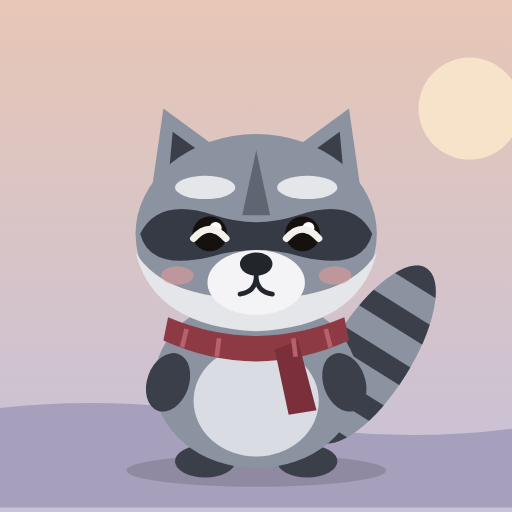
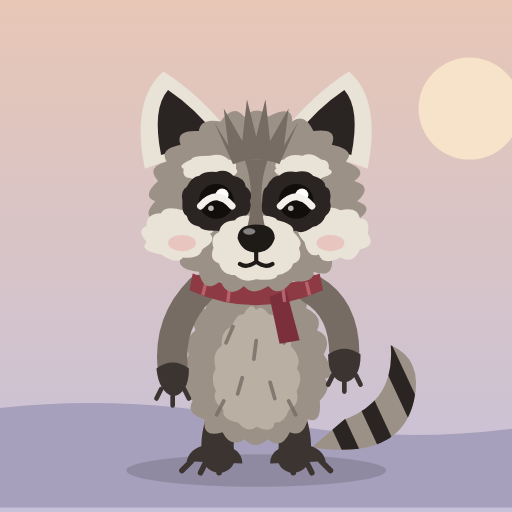
사진을 참고해 라쿤 캐릭터 다시 그리기
털이 삐죽한 아기 라쿤이 두 발로 선 모습으로 바꾸고 옷·소품 위치를 맞춤.

Claude-Session: https://claude.ai/code/session_018356KYRaA4nVB9yHaTF6Rt

diff --git a/index.html b/index.html
@@ -122,8 +122,8 @@ h2{font-family:var(--font-display);font-weight:400;font-size:20px;margin:0;lette
 .card textarea{font:inherit;font-size:13px;width:100%;min-height:70px;padding:8px;border-radius:8px;border:1px solid var(--line);background:var(--surface-2);color:var(--ink);resize:vertical}
 
 /* raccoon motion */
-#racc .body-g{transform-origin:100px 190px;animation:breathe 3.6s ease-in-out infinite}
-#racc .tail-g{transform-origin:128px 172px;animation:sway 4s ease-in-out infinite}
+#racc .body-g{transform-origin:100px 188px;animation:breathe 3.6s ease-in-out infinite}
+#racc .tail-g{transform-origin:130px 176px;animation:sway 4s ease-in-out infinite}
 #racc.hop{animation:hop .55s cubic-bezier(.3,1.6,.5,1)}
 #racc .eyes-happy{display:none}
 #racc.happy .eyes-happy{display:inline}
@@ -167,37 +167,47 @@ h2{font-family:var(--font-display);font-weight:400;font-size:20px;margin:0;lette
       <ellipse cx="160" cy="214" rx="56" ry="7" fill="#000" opacity=".14"/>
       <g transform="translate(60 24)"><g id="racc">
         <g class="tail-g">
-          <g transform="rotate(32 150 140)">
-            <ellipse cx="150" cy="140" rx="17" ry="44" fill="#8C93A0"/>
-            <g clip-path="url(#tailclip)" fill="#3A3F4A"><rect x="120" y="96" width="60" height="9"/><rect x="120" y="116" width="60" height="9"/><rect x="120" y="136" width="60" height="9"/><rect x="120" y="156" width="60" height="9"/><rect x="120" y="176" width="60" height="9"/></g>
-          </g>
+          <clipPath id="tailclip2"><path d="M124 180 Q162 186 168 160 Q172 142 158 136 Q160 160 138 168Z"/></clipPath>
+          <path d="M124 180 Q162 186 168 160 Q172 142 158 136 Q160 160 138 168Z" fill="#9C9186"/>
+          <g clip-path="url(#tailclip2)" fill="#2A2523"><rect x="132" y="150" width="7" height="40" transform="rotate(-25 135 170)"/><rect x="146" y="140" width="7" height="50" transform="rotate(-25 149 165)"/><rect x="160" y="130" width="7" height="50" transform="rotate(-25 163 155)"/></g>
         </g>
         <g class="body-g">
-          <ellipse cx="78" cy="186" rx="13" ry="7" fill="#3A3F4A"/><ellipse cx="122" cy="186" rx="13" ry="7" fill="#3A3F4A"/>
-          <ellipse cx="100" cy="152" rx="44" ry="37" fill="#8C93A0"/>
-          <ellipse cx="100" cy="160" rx="27" ry="24" fill="#D9DCE2"/>
-          <ellipse cx="62" cy="152" rx="9" ry="13" fill="#3A3F4A" transform="rotate(20 62 152)"/>
-          <ellipse cx="138" cy="152" rx="9" ry="13" fill="#3A3F4A" transform="rotate(-20 138 152)"/>
-          <g id="acc-scarf" hidden><path d="M62 124 Q100 140 138 124 L140 134 Q100 152 60 134Z" fill="#8E3A45"/><path d="M118 134 L126 164 L114 166 L108 138Z" fill="#7A2F3A"/><g stroke="#B8606B" stroke-width="2"><path d="M70 129 L68 137"/><path d="M84 133 L83 141"/><path d="M116 133 L117 141"/><path d="M130 129 L132 137"/></g></g>
-          <g id="acc-mug" hidden><rect x="136" y="140" width="20" height="22" rx="4" fill="#E9E1D3"/><path d="M156 145 q8 0 8 6 t-8 6" fill="none" stroke="#E9E1D3" stroke-width="3"/><rect x="136" y="146" width="20" height="4" fill="#C8783A"/><path d="M142 134 q-3 -5 0 -9 M150 134 q-3 -5 0 -9" stroke="#C9CDD6" stroke-width="2" fill="none" stroke-linecap="round"/><ellipse cx="140" cy="152" rx="8" ry="10" fill="#3A3F4A"/></g>
-          <!-- head -->
-          <path d="M54 76 L60 34 L90 56Z" fill="#8C93A0"/><path d="M62 66 L64 44 L82 57Z" fill="#3A3F4A"/>
-          <path d="M146 76 L140 34 L110 56Z" fill="#8C93A0"/><path d="M138 66 L136 44 L118 57Z" fill="#3A3F4A"/>
-          <ellipse cx="100" cy="88" rx="52" ry="43" fill="#8C93A0"/>
-          <path d="M48 96 Q56 128 100 130 Q144 128 152 96 Q140 116 100 116 Q60 116 48 96Z" fill="#E4E6EA"/>
-          <ellipse cx="78" cy="68" rx="13" ry="5" fill="#E4E6EA"/><ellipse cx="122" cy="68" rx="13" ry="5" fill="#E4E6EA"/>
-          <path d="M100 52 L94 80 L106 80Z" fill="#3A3F4A" opacity=".55"/>
-          <path d="M50 88 Q58 72 82 80 Q100 86 118 80 Q142 72 150 88 Q146 104 120 98 Q100 92 80 98 Q54 104 50 88Z" fill="#353A45"/>
-          <g class="eyes-open"><circle cx="80" cy="88" r="7.5" fill="#15110F"/><circle cx="120" cy="88" r="7.5" fill="#15110F"/><circle cx="82.5" cy="85.5" r="2.6" fill="#fff"/><circle cx="122.5" cy="85.5" r="2.6" fill="#fff"/></g>
-          <g class="eyes-happy" fill="none" stroke="#F4F1EC" stroke-width="3" stroke-linecap="round"><path d="M73 90 Q80 82 87 90"/><path d="M113 90 Q120 82 127 90"/></g>
-          <ellipse cx="100" cy="109" rx="21" ry="14" fill="#F4F4F6"/>
-          <ellipse cx="100" cy="101" rx="7" ry="5" fill="#22252B"/>
-          <path d="M100 106 Q100 113 93 114 M100 106 Q100 113 107 114" fill="none" stroke="#22252B" stroke-width="2" stroke-linecap="round"/>
-          <ellipse cx="66" cy="106" rx="7" ry="4" fill="#E79A9A" opacity=".55"/><ellipse cx="134" cy="106" rx="7" ry="4" fill="#E79A9A" opacity=".55"/>
+          <path d="M86 166 Q82 178 84 184" stroke="#3B3431" stroke-width="14" stroke-linecap="round" fill="none"/>
+          <path d="M114 166 Q118 178 116 184" stroke="#3B3431" stroke-width="14" stroke-linecap="round" fill="none"/>
+          <path d="M70 186 Q72 178 84 179 Q94 180 94 187 Z" fill="#3B3431"/><path d="M106 187 Q106 180 116 179 Q128 178 130 186 Z" fill="#3B3431"/>
+          <g stroke="#3B3431" stroke-width="2.4" stroke-linecap="round"><path d="M72 186 L68 190 M78 187 L76 191 M84 187 L84 191"/><path d="M128 186 L132 190 M122 187 L124 191 M116 187 L116 191"/></g>
+          <path d="M129.1 140.0 Q135.5 149.6 129.7 150.4 Q132.9 154.2 127.4 159.9 Q128.3 170.2 122.2 167.9 Q120.3 175.9 114.5 173.5 Q110.8 181.4 105.0 176.5 Q99.4 181.5 95.0 176.5 Q89.1 180.6 85.5 173.5 Q76.5 176.2 77.8 167.9 Q69.4 165.4 72.6 159.9 Q67.3 157.7 70.3 150.4 Q66.9 149.1 70.9 140.0 Q68.2 134.3 73.8 129.6 Q71.0 122.6 78.4 120.1 Q78.3 111.9 84.1 112.1 Q84.6 106.5 90.3 106.5 Q92.0 100.6 96.8 103.5 Q100.0 95.8 103.2 103.5 Q108.0 100.5 109.7 106.5 Q116.9 105.1 115.9 112.1 Q123.3 112.6 121.6 120.1 Q129.2 123.7 126.2 129.6 Q133.1 132.6 129.1 140.0Z" fill="#9C9186"/>
+          <path d="M117.5 146.0 Q120.6 149.9 117.4 155.7 Q119.1 161.5 114.1 163.8 Q112.1 169.9 107.9 169.3 Q107.5 174.4 100.0 171.2 Q96.7 174.3 92.1 169.3 Q85.0 168.1 85.9 163.8 Q80.7 160.2 82.6 155.7 Q80.0 150.6 82.5 146.0 Q80.7 139.2 85.1 136.3 Q84.9 129.4 89.4 128.2 Q91.6 122.0 94.6 122.7 Q97.8 116.9 100.0 120.8 Q102.3 118.2 105.4 122.7 Q110.6 123.3 110.6 128.2 Q116.0 130.7 114.9 136.3 Q120.0 141.6 117.5 146.0Z" fill="#B9AFA3"/>
+          <g stroke="#766C63" stroke-width="1.6" stroke-linecap="round" fill="none" opacity=".8"><path d="M90 128 l-3 7 M100 134 l-1 8 M110 128 l2 7 M94 150 l-2 7 M106 152 l2 7 M86 160 l-3 6 M114 160 l3 6"/></g>
+          <path d="M76 112 Q62 126 64 146" stroke="#766C63" stroke-width="13" stroke-linecap="round" fill="none"/>
+          <path d="M124 112 Q138 120 138 140" stroke="#766C63" stroke-width="13" stroke-linecap="round" fill="none"/>
+          <path d="M57 146 Q58 156 64 158 Q71 157 71 146 Q64 141 57 146Z" fill="#3B3431"/>
+          <path d="M131 140 Q131 151 138 152 Q145 151 145 140 Q138 135 131 140Z" fill="#3B3431"/>
+          <g stroke="#3B3431" stroke-width="2" stroke-linecap="round"><path d="M59 155 l-2 4 M64 158 l0 4 M69 155 l2 4"/><path d="M133 149 l-2 4 M138 152 l0 4 M143 149 l2 4"/></g>
+          <g id="acc-scarf" hidden transform="translate(100 108) scale(.72) translate(-100 -128)"><path d="M62 124 Q100 140 138 124 L140 134 Q100 152 60 134Z" fill="#8E3A45"/><path d="M118 134 L126 164 L114 166 L108 138Z" fill="#7A2F3A"/><g stroke="#B8606B" stroke-width="2"><path d="M70 129 L68 137"/><path d="M84 133 L83 141"/><path d="M116 133 L117 141"/><path d="M130 129 L132 137"/></g></g>
+          <g id="acc-mug" hidden transform="translate(-2 -10)"><rect x="136" y="140" width="20" height="22" rx="4" fill="#E9E1D3"/><path d="M156 145 q8 0 8 6 t-8 6" fill="none" stroke="#E9E1D3" stroke-width="3"/><rect x="136" y="146" width="20" height="4" fill="#C8783A"/><path d="M142 134 q-3 -5 0 -9 M150 134 q-3 -5 0 -9" stroke="#C9CDD6" stroke-width="2" fill="none" stroke-linecap="round"/><ellipse cx="140" cy="152" rx="8" ry="9" fill="#3B3431"/></g>
+          <!-- ears -->
+          <path d="M52 60 Q46 30 60 18 Q76 28 90 46Z" fill="#E9E2D7"/><path d="M59 54 Q55 34 62 26 Q74 34 84 47Z" fill="#2A2523"/>
+          <path d="M148 60 Q154 30 140 18 Q124 28 110 46Z" fill="#E9E2D7"/><path d="M141 54 Q145 34 138 26 Q126 34 116 47Z" fill="#2A2523"/>
+          <path d="M143.5 74.0 Q152.2 77.0 142.3 82.8 Q145.9 90.4 138.6 91.1 Q141.7 98.3 132.6 98.4 Q133.6 107.5 124.7 104.3 Q125.2 109.4 115.4 108.4 Q109.7 115.9 105.2 110.5 Q98.1 115.2 94.8 110.5 Q88.0 116.5 84.6 108.4 Q77.4 114.2 75.3 104.3 Q65.5 103.3 67.4 98.4 Q60.1 100.9 61.4 91.1 Q51.9 86.5 57.7 82.8 Q50.1 80.9 56.5 74.0 Q50.4 71.8 57.7 65.2 Q52.3 59.1 61.4 56.9 Q58.0 51.5 67.4 49.6 Q64.9 43.1 75.3 43.7 Q76.0 38.0 84.6 39.6 Q90.2 31.7 94.8 37.5 Q101.0 32.2 105.2 37.5 Q116.1 32.0 115.4 39.6 Q120.8 35.5 124.7 43.7 Q135.5 42.3 132.6 49.6 Q143.3 52.0 138.6 56.9 Q149.0 60.5 142.3 65.2 Q150.6 67.6 143.5 74.0Z" fill="#9C9186"/>
+          <path d="M80.1 88.0 Q83.2 91.1 76.8 94.6 Q75.6 99.0 68.4 98.2 Q66.1 101.6 59.0 96.9 Q49.1 95.2 52.8 91.5 Q48.1 86.5 52.8 84.5 Q52.3 79.3 59.0 79.1 Q60.6 75.6 68.4 77.8 Q73.8 74.6 76.8 81.4 Q85.1 85.0 80.1 88.0Z" fill="#E9E2D7"/><path d="M148.1 88.0 Q151.9 93.5 144.8 94.6 Q141.8 101.4 136.4 98.2 Q128.6 102.0 127.0 96.9 Q122.3 98.7 120.8 91.5 Q115.2 85.4 120.8 84.5 Q122.5 78.1 127.0 79.1 Q130.6 75.0 136.4 77.8 Q143.8 76.1 144.8 81.4 Q149.3 81.1 148.1 88.0Z" fill="#E9E2D7"/>
+          <path d="M91.3 60.0 Q93.3 62.1 88.0 64.0 Q84.4 66.6 80.0 65.7 Q74.3 66.6 72.0 64.0 Q67.9 64.1 68.7 60.0 Q65.7 58.7 72.0 56.0 Q72.2 54.3 80.0 54.3 Q85.3 52.9 88.0 56.0 Q91.9 56.2 91.3 60.0Z" fill="#E9E2D7"/><path d="M131.3 60.0 Q135.0 62.0 128.0 64.0 Q128.1 66.3 120.0 65.7 Q117.2 66.9 112.0 64.0 Q106.1 61.1 108.7 60.0 Q106.9 56.8 112.0 56.0 Q114.1 53.3 120.0 54.3 Q123.7 52.6 128.0 56.0 Q131.8 56.1 131.3 60.0Z" fill="#E9E2D7"/>
+          <path d="M82 40 L88 50 L86 34 L94 48 L96 30 L100 46 L104 30 L106 48 L114 34 L112 50 L118 40 L110 58 Q100 54 90 58Z" fill="#766C63"/>
+          <path d="M97.4 74.0 Q98.7 77.5 95.5 80.3 Q96.0 83.1 90.1 85.0 Q89.5 87.1 82.8 86.7 Q76.7 86.9 75.5 85.0 Q70.8 84.0 70.1 80.3 Q67.8 79.6 68.2 74.0 Q67.2 69.4 70.1 67.7 Q72.2 63.4 75.5 63.0 Q77.4 60.9 82.8 61.3 Q87.2 59.8 90.1 63.0 Q95.0 64.0 95.5 67.7 Q98.8 69.7 97.4 74.0Z" fill="#2A2523"/><path d="M131.8 74.0 Q133.0 78.0 129.9 80.3 Q128.4 84.2 124.5 85.0 Q119.9 88.4 117.2 86.7 Q112.3 87.3 109.9 85.0 Q105.6 83.9 104.5 80.3 Q101.2 78.9 102.6 74.0 Q102.6 68.4 104.5 67.7 Q106.9 62.7 109.9 63.0 Q112.4 60.5 117.2 61.3 Q122.3 60.4 124.5 63.0 Q129.7 64.4 129.9 67.7 Q132.8 68.6 131.8 74.0Z" fill="#2A2523"/>
+          <path d="M118.4 94.0 Q120.4 99.6 116.0 100.8 Q114.8 104.8 109.2 105.8 Q108.8 108.5 100.0 107.6 Q94.6 109.5 90.8 105.8 Q85.3 105.8 84.0 100.8 Q79.4 99.2 81.6 94.0 Q80.0 88.9 84.0 87.2 Q84.9 82.6 90.8 82.2 Q92.5 79.3 100.0 80.4 Q107.3 79.6 109.2 82.2 Q116.6 83.9 116.0 87.2 Q120.8 91.6 118.4 94.0Z" fill="#E9E2D7"/>
+          <path d="M95 56 Q100 70 96 86 L104 86 Q100 70 105 56Z" fill="#766C63"/>
+          <g class="eyes-open"><circle cx="82.8" cy="74" r="7.5" fill="#120E0C"/><circle cx="117.2" cy="74" r="7.5" fill="#120E0C"/><circle cx="85.3" cy="71.3" r="2.8" fill="#fff"/><circle cx="119.7" cy="71.3" r="2.8" fill="#fff"/><circle cx="80.5" cy="77" r="1.2" fill="#fff" opacity=".7"/><circle cx="114.9" cy="77" r="1.2" fill="#fff" opacity=".7"/></g>
+          <g class="eyes-happy" fill="none" stroke="#F4F1EC" stroke-width="3" stroke-linecap="round"><path d="M76 76 Q82.8 68 89.6 76"/><path d="M110.4 76 Q117.2 68 124 76"/></g>
+          <path d="M92 90 Q92 84 100 84 Q108 84 108 90 Q106 96 100 96 Q94 96 92 90Z" fill="#1E1A18"/>
+          <ellipse cx="97" cy="87" rx="2.6" ry="1.4" fill="#fff" opacity=".45"/>
+          <path d="M100 96 L100 100 M100 100 Q96 103 93 101 M100 100 Q104 103 107 101" fill="none" stroke="#1E1A18" stroke-width="1.8" stroke-linecap="round"/>
+          <ellipse cx="68" cy="92" rx="6" ry="3.5" fill="#E79A9A" opacity=".4"/><ellipse cx="132" cy="92" rx="6" ry="3.5" fill="#E79A9A" opacity=".4"/>
+          <g transform="translate(100 74) scale(.86) translate(-100 -88)">
           <g id="acc-glasses" hidden fill="none" stroke="#C99B4A" stroke-width="2.4"><circle cx="80" cy="88" r="13"/><circle cx="120" cy="88" r="13"/><path d="M93 87 Q100 83 107 87"/><path d="M67 86 L52 82"/><path d="M133 86 L148 82"/></g>
           <g id="acc-beanie" hidden><path d="M50 70 Q54 26 100 24 Q146 26 150 70Z" fill="#5E7D6A"/><rect x="46" y="62" width="108" height="16" rx="8" fill="#4B6957"/><g stroke="#6F907B" stroke-width="2"><path d="M70 34 L66 62"/><path d="M86 28 L84 62"/><path d="M100 26 L100 62"/><path d="M114 28 L116 62"/><path d="M130 34 L134 62"/></g><circle cx="100" cy="22" r="10" fill="#E9E1D3"/></g>
           <g id="acc-headphones" hidden><path d="M46 84 Q46 30 100 30 Q154 30 154 84" fill="none" stroke="#2E3340" stroke-width="7" stroke-linecap="round"/><rect x="36" y="76" width="18" height="28" rx="7" fill="#D98A2B"/><rect x="146" y="76" width="18" height="28" rx="7" fill="#D98A2B"/></g>
           <g id="acc-crown" hidden><path d="M76 50 L80 28 L91 40 L100 22 L109 40 L120 28 L124 50Z" fill="#E7B53C" stroke="#B9862A" stroke-width="1.5" stroke-linejoin="round"/><circle cx="100" cy="40" r="3" fill="#C94E5B"/><circle cx="86" cy="45" r="2" fill="#4E86C9"/><circle cx="114" cy="45" r="2" fill="#4E86C9"/></g>
+          </g>
         </g>
       </g></g>
       <g id="bubble-g">

diff --git a/src/app.html b/src/app.html
@@ -111,8 +111,8 @@ h2{font-family:var(--font-display);font-weight:400;font-size:20px;margin:0;lette
 .card textarea{font:inherit;font-size:13px;width:100%;min-height:70px;padding:8px;border-radius:8px;border:1px solid var(--line);background:var(--surface-2);color:var(--ink);resize:vertical}
 
 /* raccoon motion */
-#racc .body-g{transform-origin:100px 190px;animation:breathe 3.6s ease-in-out infinite}
-#racc .tail-g{transform-origin:128px 172px;animation:sway 4s ease-in-out infinite}
+#racc .body-g{transform-origin:100px 188px;animation:breathe 3.6s ease-in-out infinite}
+#racc .tail-g{transform-origin:130px 176px;animation:sway 4s ease-in-out infinite}
 #racc.hop{animation:hop .55s cubic-bezier(.3,1.6,.5,1)}
 #racc .eyes-happy{display:none}
 #racc.happy .eyes-happy{display:inline}
@@ -156,37 +156,47 @@ h2{font-family:var(--font-display);font-weight:400;font-size:20px;margin:0;lette
       <ellipse cx="160" cy="214" rx="56" ry="7" fill="#000" opacity=".14"/>
       <g transform="translate(60 24)"><g id="racc">
         <g class="tail-g">
-          <g transform="rotate(32 150 140)">
-            <ellipse cx="150" cy="140" rx="17" ry="44" fill="#8C93A0"/>
-            <g clip-path="url(#tailclip)" fill="#3A3F4A"><rect x="120" y="96" width="60" height="9"/><rect x="120" y="116" width="60" height="9"/><rect x="120" y="136" width="60" height="9"/><rect x="120" y="156" width="60" height="9"/><rect x="120" y="176" width="60" height="9"/></g>
-          </g>
+          <clipPath id="tailclip2"><path d="M124 180 Q162 186 168 160 Q172 142 158 136 Q160 160 138 168Z"/></clipPath>
+          <path d="M124 180 Q162 186 168 160 Q172 142 158 136 Q160 160 138 168Z" fill="#9C9186"/>
+          <g clip-path="url(#tailclip2)" fill="#2A2523"><rect x="132" y="150" width="7" height="40" transform="rotate(-25 135 170)"/><rect x="146" y="140" width="7" height="50" transform="rotate(-25 149 165)"/><rect x="160" y="130" width="7" height="50" transform="rotate(-25 163 155)"/></g>
         </g>
         <g class="body-g">
-          <ellipse cx="78" cy="186" rx="13" ry="7" fill="#3A3F4A"/><ellipse cx="122" cy="186" rx="13" ry="7" fill="#3A3F4A"/>
-          <ellipse cx="100" cy="152" rx="44" ry="37" fill="#8C93A0"/>
-          <ellipse cx="100" cy="160" rx="27" ry="24" fill="#D9DCE2"/>
-          <ellipse cx="62" cy="152" rx="9" ry="13" fill="#3A3F4A" transform="rotate(20 62 152)"/>
-          <ellipse cx="138" cy="152" rx="9" ry="13" fill="#3A3F4A" transform="rotate(-20 138 152)"/>
-          <g id="acc-scarf" hidden><path d="M62 124 Q100 140 138 124 L140 134 Q100 152 60 134Z" fill="#8E3A45"/><path d="M118 134 L126 164 L114 166 L108 138Z" fill="#7A2F3A"/><g stroke="#B8606B" stroke-width="2"><path d="M70 129 L68 137"/><path d="M84 133 L83 141"/><path d="M116 133 L117 141"/><path d="M130 129 L132 137"/></g></g>
-          <g id="acc-mug" hidden><rect x="136" y="140" width="20" height="22" rx="4" fill="#E9E1D3"/><path d="M156 145 q8 0 8 6 t-8 6" fill="none" stroke="#E9E1D3" stroke-width="3"/><rect x="136" y="146" width="20" height="4" fill="#C8783A"/><path d="M142 134 q-3 -5 0 -9 M150 134 q-3 -5 0 -9" stroke="#C9CDD6" stroke-width="2" fill="none" stroke-linecap="round"/><ellipse cx="140" cy="152" rx="8" ry="10" fill="#3A3F4A"/></g>
-          <!-- head -->
-          <path d="M54 76 L60 34 L90 56Z" fill="#8C93A0"/><path d="M62 66 L64 44 L82 57Z" fill="#3A3F4A"/>
-          <path d="M146 76 L140 34 L110 56Z" fill="#8C93A0"/><path d="M138 66 L136 44 L118 57Z" fill="#3A3F4A"/>
-          <ellipse cx="100" cy="88" rx="52" ry="43" fill="#8C93A0"/>
-          <path d="M48 96 Q56 128 100 130 Q144 128 152 96 Q140 116 100 116 Q60 116 48 96Z" fill="#E4E6EA"/>
-          <ellipse cx="78" cy="68" rx="13" ry="5" fill="#E4E6EA"/><ellipse cx="122" cy="68" rx="13" ry="5" fill="#E4E6EA"/>
-          <path d="M100 52 L94 80 L106 80Z" fill="#3A3F4A" opacity=".55"/>
-          <path d="M50 88 Q58 72 82 80 Q100 86 118 80 Q142 72 150 88 Q146 104 120 98 Q100 92 80 98 Q54 104 50 88Z" fill="#353A45"/>
-          <g class="eyes-open"><circle cx="80" cy="88" r="7.5" fill="#15110F"/><circle cx="120" cy="88" r="7.5" fill="#15110F"/><circle cx="82.5" cy="85.5" r="2.6" fill="#fff"/><circle cx="122.5" cy="85.5" r="2.6" fill="#fff"/></g>
-          <g class="eyes-happy" fill="none" stroke="#F4F1EC" stroke-width="3" stroke-linecap="round"><path d="M73 90 Q80 82 87 90"/><path d="M113 90 Q120 82 127 90"/></g>
-          <ellipse cx="100" cy="109" rx="21" ry="14" fill="#F4F4F6"/>
-          <ellipse cx="100" cy="101" rx="7" ry="5" fill="#22252B"/>
-          <path d="M100 106 Q100 113 93 114 M100 106 Q100 113 107 114" fill="none" stroke="#22252B" stroke-width="2" stroke-linecap="round"/>
-          <ellipse cx="66" cy="106" rx="7" ry="4" fill="#E79A9A" opacity=".55"/><ellipse cx="134" cy="106" rx="7" ry="4" fill="#E79A9A" opacity=".55"/>
+          <path d="M86 166 Q82 178 84 184" stroke="#3B3431" stroke-width="14" stroke-linecap="round" fill="none"/>
+          <path d="M114 166 Q118 178 116 184" stroke="#3B3431" stroke-width="14" stroke-linecap="round" fill="none"/>
+          <path d="M70 186 Q72 178 84 179 Q94 180 94 187 Z" fill="#3B3431"/><path d="M106 187 Q106 180 116 179 Q128 178 130 186 Z" fill="#3B3431"/>
+          <g stroke="#3B3431" stroke-width="2.4" stroke-linecap="round"><path d="M72 186 L68 190 M78 187 L76 191 M84 187 L84 191"/><path d="M128 186 L132 190 M122 187 L124 191 M116 187 L116 191"/></g>
+          <path d="M129.1 140.0 Q135.5 149.6 129.7 150.4 Q132.9 154.2 127.4 159.9 Q128.3 170.2 122.2 167.9 Q120.3 175.9 114.5 173.5 Q110.8 181.4 105.0 176.5 Q99.4 181.5 95.0 176.5 Q89.1 180.6 85.5 173.5 Q76.5 176.2 77.8 167.9 Q69.4 165.4 72.6 159.9 Q67.3 157.7 70.3 150.4 Q66.9 149.1 70.9 140.0 Q68.2 134.3 73.8 129.6 Q71.0 122.6 78.4 120.1 Q78.3 111.9 84.1 112.1 Q84.6 106.5 90.3 106.5 Q92.0 100.6 96.8 103.5 Q100.0 95.8 103.2 103.5 Q108.0 100.5 109.7 106.5 Q116.9 105.1 115.9 112.1 Q123.3 112.6 121.6 120.1 Q129.2 123.7 126.2 129.6 Q133.1 132.6 129.1 140.0Z" fill="#9C9186"/>
+          <path d="M117.5 146.0 Q120.6 149.9 117.4 155.7 Q119.1 161.5 114.1 163.8 Q112.1 169.9 107.9 169.3 Q107.5 174.4 100.0 171.2 Q96.7 174.3 92.1 169.3 Q85.0 168.1 85.9 163.8 Q80.7 160.2 82.6 155.7 Q80.0 150.6 82.5 146.0 Q80.7 139.2 85.1 136.3 Q84.9 129.4 89.4 128.2 Q91.6 122.0 94.6 122.7 Q97.8 116.9 100.0 120.8 Q102.3 118.2 105.4 122.7 Q110.6 123.3 110.6 128.2 Q116.0 130.7 114.9 136.3 Q120.0 141.6 117.5 146.0Z" fill="#B9AFA3"/>
+          <g stroke="#766C63" stroke-width="1.6" stroke-linecap="round" fill="none" opacity=".8"><path d="M90 128 l-3 7 M100 134 l-1 8 M110 128 l2 7 M94 150 l-2 7 M106 152 l2 7 M86 160 l-3 6 M114 160 l3 6"/></g>
+          <path d="M76 112 Q62 126 64 146" stroke="#766C63" stroke-width="13" stroke-linecap="round" fill="none"/>
+          <path d="M124 112 Q138 120 138 140" stroke="#766C63" stroke-width="13" stroke-linecap="round" fill="none"/>
+          <path d="M57 146 Q58 156 64 158 Q71 157 71 146 Q64 141 57 146Z" fill="#3B3431"/>
+          <path d="M131 140 Q131 151 138 152 Q145 151 145 140 Q138 135 131 140Z" fill="#3B3431"/>
+          <g stroke="#3B3431" stroke-width="2" stroke-linecap="round"><path d="M59 155 l-2 4 M64 158 l0 4 M69 155 l2 4"/><path d="M133 149 l-2 4 M138 152 l0 4 M143 149 l2 4"/></g>
+          <g id="acc-scarf" hidden transform="translate(100 108) scale(.72) translate(-100 -128)"><path d="M62 124 Q100 140 138 124 L140 134 Q100 152 60 134Z" fill="#8E3A45"/><path d="M118 134 L126 164 L114 166 L108 138Z" fill="#7A2F3A"/><g stroke="#B8606B" stroke-width="2"><path d="M70 129 L68 137"/><path d="M84 133 L83 141"/><path d="M116 133 L117 141"/><path d="M130 129 L132 137"/></g></g>
+          <g id="acc-mug" hidden transform="translate(-2 -10)"><rect x="136" y="140" width="20" height="22" rx="4" fill="#E9E1D3"/><path d="M156 145 q8 0 8 6 t-8 6" fill="none" stroke="#E9E1D3" stroke-width="3"/><rect x="136" y="146" width="20" height="4" fill="#C8783A"/><path d="M142 134 q-3 -5 0 -9 M150 134 q-3 -5 0 -9" stroke="#C9CDD6" stroke-width="2" fill="none" stroke-linecap="round"/><ellipse cx="140" cy="152" rx="8" ry="9" fill="#3B3431"/></g>
+          <!-- ears -->
+          <path d="M52 60 Q46 30 60 18 Q76 28 90 46Z" fill="#E9E2D7"/><path d="M59 54 Q55 34 62 26 Q74 34 84 47Z" fill="#2A2523"/>
+          <path d="M148 60 Q154 30 140 18 Q124 28 110 46Z" fill="#E9E2D7"/><path d="M141 54 Q145 34 138 26 Q126 34 116 47Z" fill="#2A2523"/>
+          <path d="M143.5 74.0 Q152.2 77.0 142.3 82.8 Q145.9 90.4 138.6 91.1 Q141.7 98.3 132.6 98.4 Q133.6 107.5 124.7 104.3 Q125.2 109.4 115.4 108.4 Q109.7 115.9 105.2 110.5 Q98.1 115.2 94.8 110.5 Q88.0 116.5 84.6 108.4 Q77.4 114.2 75.3 104.3 Q65.5 103.3 67.4 98.4 Q60.1 100.9 61.4 91.1 Q51.9 86.5 57.7 82.8 Q50.1 80.9 56.5 74.0 Q50.4 71.8 57.7 65.2 Q52.3 59.1 61.4 56.9 Q58.0 51.5 67.4 49.6 Q64.9 43.1 75.3 43.7 Q76.0 38.0 84.6 39.6 Q90.2 31.7 94.8 37.5 Q101.0 32.2 105.2 37.5 Q116.1 32.0 115.4 39.6 Q120.8 35.5 124.7 43.7 Q135.5 42.3 132.6 49.6 Q143.3 52.0 138.6 56.9 Q149.0 60.5 142.3 65.2 Q150.6 67.6 143.5 74.0Z" fill="#9C9186"/>
+          <path d="M80.1 88.0 Q83.2 91.1 76.8 94.6 Q75.6 99.0 68.4 98.2 Q66.1 101.6 59.0 96.9 Q49.1 95.2 52.8 91.5 Q48.1 86.5 52.8 84.5 Q52.3 79.3 59.0 79.1 Q60.6 75.6 68.4 77.8 Q73.8 74.6 76.8 81.4 Q85.1 85.0 80.1 88.0Z" fill="#E9E2D7"/><path d="M148.1 88.0 Q151.9 93.5 144.8 94.6 Q141.8 101.4 136.4 98.2 Q128.6 102.0 127.0 96.9 Q122.3 98.7 120.8 91.5 Q115.2 85.4 120.8 84.5 Q122.5 78.1 127.0 79.1 Q130.6 75.0 136.4 77.8 Q143.8 76.1 144.8 81.4 Q149.3 81.1 148.1 88.0Z" fill="#E9E2D7"/>
+          <path d="M91.3 60.0 Q93.3 62.1 88.0 64.0 Q84.4 66.6 80.0 65.7 Q74.3 66.6 72.0 64.0 Q67.9 64.1 68.7 60.0 Q65.7 58.7 72.0 56.0 Q72.2 54.3 80.0 54.3 Q85.3 52.9 88.0 56.0 Q91.9 56.2 91.3 60.0Z" fill="#E9E2D7"/><path d="M131.3 60.0 Q135.0 62.0 128.0 64.0 Q128.1 66.3 120.0 65.7 Q117.2 66.9 112.0 64.0 Q106.1 61.1 108.7 60.0 Q106.9 56.8 112.0 56.0 Q114.1 53.3 120.0 54.3 Q123.7 52.6 128.0 56.0 Q131.8 56.1 131.3 60.0Z" fill="#E9E2D7"/>
+          <path d="M82 40 L88 50 L86 34 L94 48 L96 30 L100 46 L104 30 L106 48 L114 34 L112 50 L118 40 L110 58 Q100 54 90 58Z" fill="#766C63"/>
+          <path d="M97.4 74.0 Q98.7 77.5 95.5 80.3 Q96.0 83.1 90.1 85.0 Q89.5 87.1 82.8 86.7 Q76.7 86.9 75.5 85.0 Q70.8 84.0 70.1 80.3 Q67.8 79.6 68.2 74.0 Q67.2 69.4 70.1 67.7 Q72.2 63.4 75.5 63.0 Q77.4 60.9 82.8 61.3 Q87.2 59.8 90.1 63.0 Q95.0 64.0 95.5 67.7 Q98.8 69.7 97.4 74.0Z" fill="#2A2523"/><path d="M131.8 74.0 Q133.0 78.0 129.9 80.3 Q128.4 84.2 124.5 85.0 Q119.9 88.4 117.2 86.7 Q112.3 87.3 109.9 85.0 Q105.6 83.9 104.5 80.3 Q101.2 78.9 102.6 74.0 Q102.6 68.4 104.5 67.7 Q106.9 62.7 109.9 63.0 Q112.4 60.5 117.2 61.3 Q122.3 60.4 124.5 63.0 Q129.7 64.4 129.9 67.7 Q132.8 68.6 131.8 74.0Z" fill="#2A2523"/>
+          <path d="M118.4 94.0 Q120.4 99.6 116.0 100.8 Q114.8 104.8 109.2 105.8 Q108.8 108.5 100.0 107.6 Q94.6 109.5 90.8 105.8 Q85.3 105.8 84.0 100.8 Q79.4 99.2 81.6 94.0 Q80.0 88.9 84.0 87.2 Q84.9 82.6 90.8 82.2 Q92.5 79.3 100.0 80.4 Q107.3 79.6 109.2 82.2 Q116.6 83.9 116.0 87.2 Q120.8 91.6 118.4 94.0Z" fill="#E9E2D7"/>
+          <path d="M95 56 Q100 70 96 86 L104 86 Q100 70 105 56Z" fill="#766C63"/>
+          <g class="eyes-open"><circle cx="82.8" cy="74" r="7.5" fill="#120E0C"/><circle cx="117.2" cy="74" r="7.5" fill="#120E0C"/><circle cx="85.3" cy="71.3" r="2.8" fill="#fff"/><circle cx="119.7" cy="71.3" r="2.8" fill="#fff"/><circle cx="80.5" cy="77" r="1.2" fill="#fff" opacity=".7"/><circle cx="114.9" cy="77" r="1.2" fill="#fff" opacity=".7"/></g>
+          <g class="eyes-happy" fill="none" stroke="#F4F1EC" stroke-width="3" stroke-linecap="round"><path d="M76 76 Q82.8 68 89.6 76"/><path d="M110.4 76 Q117.2 68 124 76"/></g>
+          <path d="M92 90 Q92 84 100 84 Q108 84 108 90 Q106 96 100 96 Q94 96 92 90Z" fill="#1E1A18"/>
+          <ellipse cx="97" cy="87" rx="2.6" ry="1.4" fill="#fff" opacity=".45"/>
+          <path d="M100 96 L100 100 M100 100 Q96 103 93 101 M100 100 Q104 103 107 101" fill="none" stroke="#1E1A18" stroke-width="1.8" stroke-linecap="round"/>
+          <ellipse cx="68" cy="92" rx="6" ry="3.5" fill="#E79A9A" opacity=".4"/><ellipse cx="132" cy="92" rx="6" ry="3.5" fill="#E79A9A" opacity=".4"/>
+          <g transform="translate(100 74) scale(.86) translate(-100 -88)">
           <g id="acc-glasses" hidden fill="none" stroke="#C99B4A" stroke-width="2.4"><circle cx="80" cy="88" r="13"/><circle cx="120" cy="88" r="13"/><path d="M93 87 Q100 83 107 87"/><path d="M67 86 L52 82"/><path d="M133 86 L148 82"/></g>
           <g id="acc-beanie" hidden><path d="M50 70 Q54 26 100 24 Q146 26 150 70Z" fill="#5E7D6A"/><rect x="46" y="62" width="108" height="16" rx="8" fill="#4B6957"/><g stroke="#6F907B" stroke-width="2"><path d="M70 34 L66 62"/><path d="M86 28 L84 62"/><path d="M100 26 L100 62"/><path d="M114 28 L116 62"/><path d="M130 34 L134 62"/></g><circle cx="100" cy="22" r="10" fill="#E9E1D3"/></g>
           <g id="acc-headphones" hidden><path d="M46 84 Q46 30 100 30 Q154 30 154 84" fill="none" stroke="#2E3340" stroke-width="7" stroke-linecap="round"/><rect x="36" y="76" width="18" height="28" rx="7" fill="#D98A2B"/><rect x="146" y="76" width="18" height="28" rx="7" fill="#D98A2B"/></g>
           <g id="acc-crown" hidden><path d="M76 50 L80 28 L91 40 L100 22 L109 40 L120 28 L124 50Z" fill="#E7B53C" stroke="#B9862A" stroke-width="1.5" stroke-linejoin="round"/><circle cx="100" cy="40" r="3" fill="#C94E5B"/><circle cx="86" cy="45" r="2" fill="#4E86C9"/><circle cx="114" cy="45" r="2" fill="#4E86C9"/></g>
+          </g>
         </g>
       </g></g>
       <g id="bubble-g">
